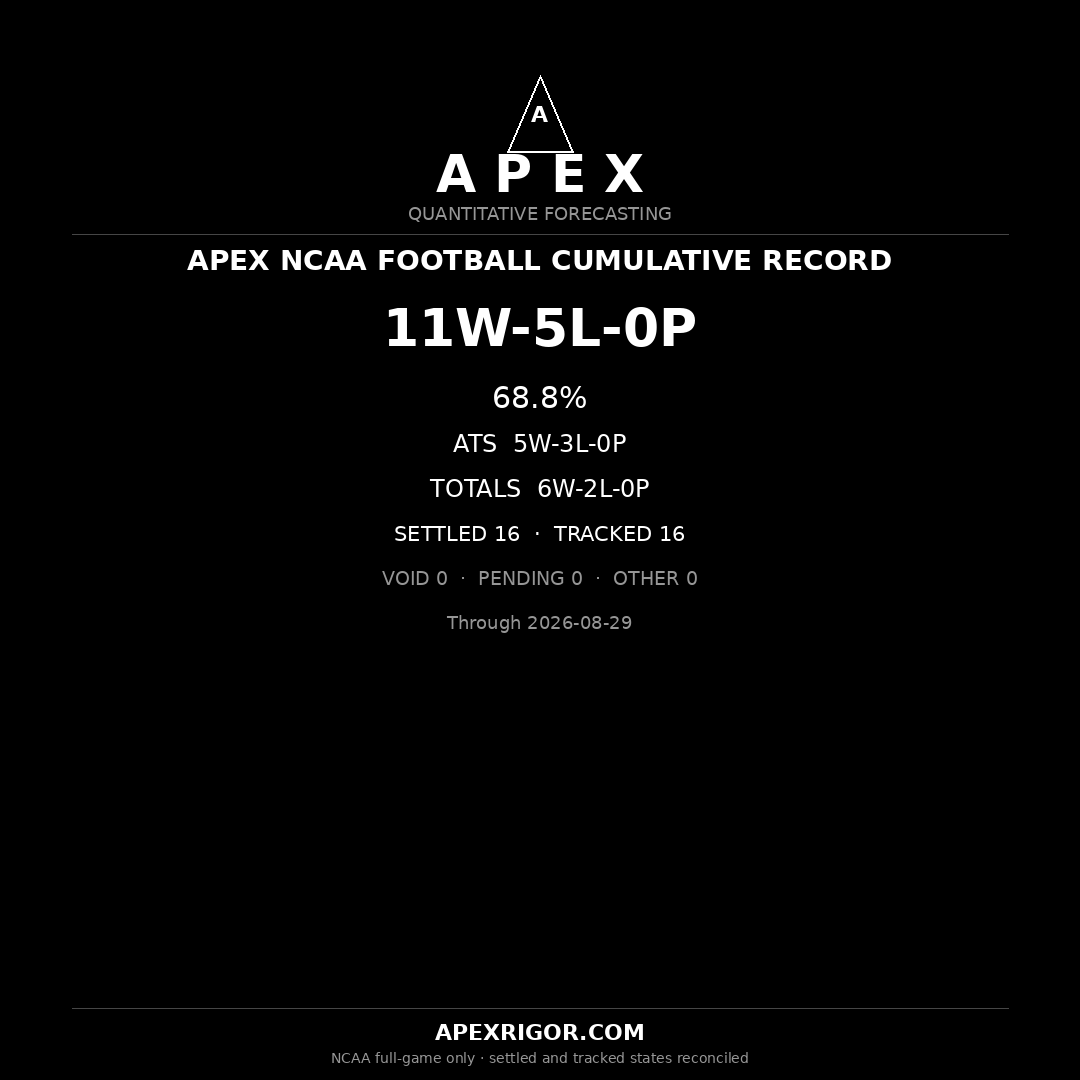
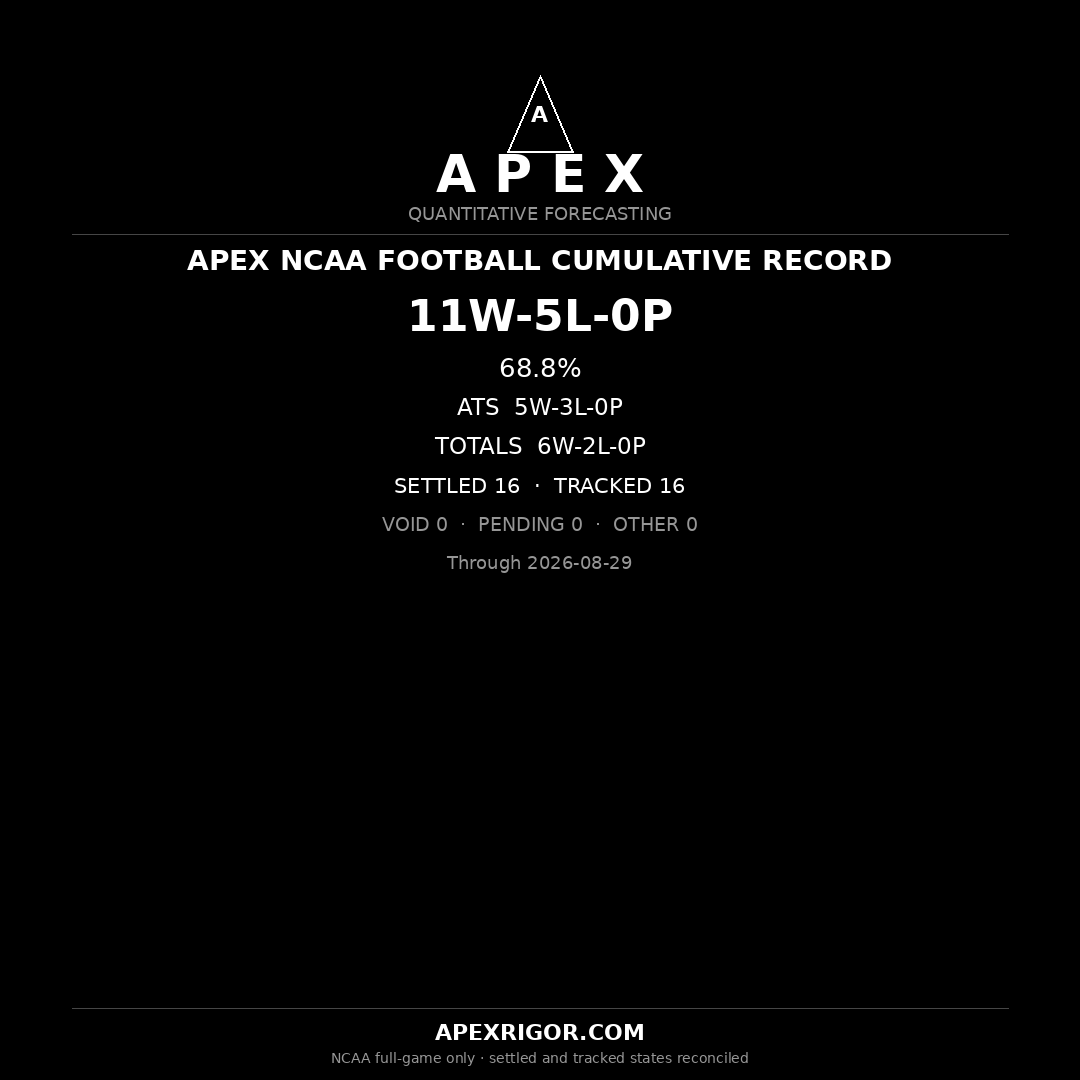
Align NCAA results products with canonical cumulative record

Changed region(s): [[0.3667, 0.275, 0.6417, 0.5806]]

diff --git a/ncaaf/results/index.html b/ncaaf/results/index.html
@@ -21,12 +21,16 @@
 <main id="results-root" aria-live="polite"></main></div>
 <script>
 const esc=v=>String(v??"").replace(/[&<>"']/g,c=>({"&":"&amp;","<":"&lt;",">":"&gt;",'"':"&quot;","'":"&#39;"}[c]));
-const rec=r=>`${r.W}-${r.L}-${r.PUSH}`+(r.VOID?` · ${r.VOID} VOID`:"");
-const tierTable=(title,groups)=>`<section class="result-section"><h2>${title}</h2><table class="results"><thead><tr><th>Tier</th><th>Record</th><th>Pending</th></tr></thead><tbody>${Object.entries(groups).map(([t,r])=>`<tr><td>${esc(t)}</td><td>${rec(r)}</td><td class="muted">${r.PENDING}</td></tr>`).join("")}</tbody></table></section>`;
-Promise.all([fetch("/data/ncaaf_results_summary.json",{cache:"no-store"}).then(r=>r.json()),fetch("/data/ncaaf_results_archive.json",{cache:"no-store"}).then(r=>r.json())]).then(([s,rows])=>{
- document.getElementById("results-meta").textContent=`${s.graded_position_count} GRADED · ${s.pending_position_count} PENDING`;
+const rec=r=>`${r.W}-${r.L}-${r.PUSH}P`+(r.VOID?` · ${r.VOID} VOID`:"")+(r.PENDING?` · ${r.PENDING} PENDING`:"");
+const rate=r=>r.win_rate==null?"N/A":`${(100*r.win_rate).toFixed(1)}%`;
+const dateLabel=value=>new Intl.DateTimeFormat("en-US",{timeZone:"UTC",year:"numeric",month:"long",day:"numeric"}).format(new Date(`${value}T00:00:00Z`));
+const tierRows=groups=>`<table class="results"><thead><tr><th>Tier</th><th>Record</th><th>Win Rate</th></tr></thead><tbody>${["WEAK","MODERATE","STRONG","ELITE"].map(t=>{const r=groups[t];return `<tr><td class="mono">${esc(t[0]+t.slice(1).toLowerCase())}</td><td class="mono">${rec(r)}</td><td class="mono muted">${rate(r)}</td></tr>`}).join("")}</tbody></table>`;
+fetch("/data/ncaaf_results_cumulative.json",{cache:"no-store"}).then(r=>{if(!r.ok)throw new Error(`HTTP ${r.status}`);return r.json()}).then(s=>{
+ const rows=s.positions||[];
  if(!rows.length){document.getElementById("results-root").innerHTML=`<div class="empty-state">2026 NCAA RESULTS BEGIN WITH THE FIRST GRADED APEX NCAA SLATE.</div>`;return}
- const latest=rows.map(r=>r.date).sort().at(-1); const detail=rows.filter(r=>r.date===latest);
- document.getElementById("results-root").innerHTML=`<section class="result-section"><h2>Season Record</h2><div class="banner"><div class="cell"><div class="label">Wins</div><div class="val">${s.season_record.W}</div></div><div class="cell"><div class="label">Losses</div><div class="val">${s.season_record.L}</div></div><div class="cell"><div class="label">Pushes</div><div class="val">${s.season_record.PUSH}</div></div><div class="cell"><div class="label">Pending</div><div class="val">${s.season_record.PENDING}</div></div></div></section>${tierTable("Full-Game ATS by Confidence Tier",s.ats_by_tier)}${tierTable("Full-Game Totals by Confidence Tier",s.totals_by_tier)}${tierTable("Combined NCAA by Confidence Tier",s.combined_by_tier)}<section class="result-section"><h2>Gameday Archive</h2><div class="meta mono">${[...new Set(rows.map(r=>r.date))].sort().reverse().map(esc).join(" · ")}</div></section><section class="result-section"><h2>Latest Slate Detail · ${esc(latest)}</h2><table class="results"><thead><tr><th>Game</th><th>Matchup</th><th>Market</th><th>Pick</th><th>Tier</th><th>Result</th></tr></thead><tbody>${detail.map(r=>`<tr><td>${esc(r.game_id.slice(-6))}</td><td>${esc(r.matchup)}</td><td>${esc(r.market)}</td><td>${esc(r.pick)}</td><td>${esc(r.tier)}</td><td>${esc(r.result)}</td></tr>`).join("")}</tbody></table></section>`;
+ const latest=s.latest_graded_slate; const detail=rows.filter(r=>r.slate_date===latest); const latestAll={W:0,L:0,PUSH:0,VOID:0,PENDING:0}; const latestATS={...latestAll}; const latestTotals={...latestAll};
+ detail.forEach(r=>{latestAll[r.result]++;(r.market==="ATS"?latestATS:latestTotals)[r.result]++});
+ document.getElementById("results-meta").textContent=`${dateLabel(latest).toUpperCase()} · ${s.total_tracked_positions} POSITIONS TRACKED`;
+ document.getElementById("results-root").innerHTML=`<section class="result-section"><h2>Season Record</h2><div class="banner" data-apex-season-record="${rec(s.season_record)}" data-apex-season-win-rate="${rate(s.season_record)}" data-apex-ats-record="${rec(s.ats_record)}" data-apex-totals-record="${rec(s.totals_record)}"><div class="cell"><div class="label">Overall</div><div class="val mono">${rec(s.season_record)}</div></div><div class="cell"><div class="label">Win Rate</div><div class="val mono">${rate(s.season_record)}</div></div><div class="cell"><div class="label">Full-Game ATS</div><div class="val mono">${rec(s.ats_record)}</div></div><div class="cell"><div class="label">Full-Game Total</div><div class="val mono">${rec(s.totals_record)}</div></div></div></section><div class="section-head"><div class="title">As-Issued Tier Performance</div><div class="meta mono">${esc(s.first_graded_slate)} — ${esc(s.latest_graded_slate)}</div></div><div class="tier-grid"><div class="tier-col"><div class="tier-sub">ATS by Confidence Tier</div>${tierRows(s.ats_by_tier)}</div><div class="tier-col"><div class="tier-sub">Totals by Confidence Tier</div>${tierRows(s.totals_by_tier)}</div></div><div class="tier-sub">Combined NCAA by Confidence Tier</div><div class="tier-single">${tierRows(s.combined_by_tier)}</div><div class="section-head"><div class="title">Latest Graded Slate</div><div class="meta mono">${dateLabel(latest).toUpperCase()}</div></div><div class="banner"><div class="cell"><div class="label">Combined</div><div class="val mono">${rec(latestAll)}</div></div><div class="cell"><div class="label">ATS</div><div class="val mono">${rec(latestATS)}</div></div><div class="cell"><div class="label">Totals</div><div class="val mono">${rec(latestTotals)}</div></div><div class="cell"><div class="label">Positions</div><div class="val mono">${detail.length}</div></div></div><section class="result-section"><h2>${dateLabel(latest)} Position Ledger</h2><table class="results"><thead><tr><th>Game</th><th>Matchup</th><th>Market</th><th>Pick</th><th>Tier</th><th>Result</th></tr></thead><tbody>${detail.map(r=>`<tr><td>${esc(r.game_id.slice(-6))}</td><td>${esc(r.matchup)}</td><td>${esc(r.market==="TOTALS"?"TOTAL":r.market)}</td><td>${esc(r.pick)}</td><td>${esc(r.as_issued_tier)}</td><td>${esc(r.result)}</td></tr>`).join("")}</tbody></table></section>`;
 }).catch(e=>document.getElementById("results-root").innerHTML=`<div class="empty-state">RESULTS DATA UNAVAILABLE · ${esc(e.message)}</div>`);
 </script></body></html>
